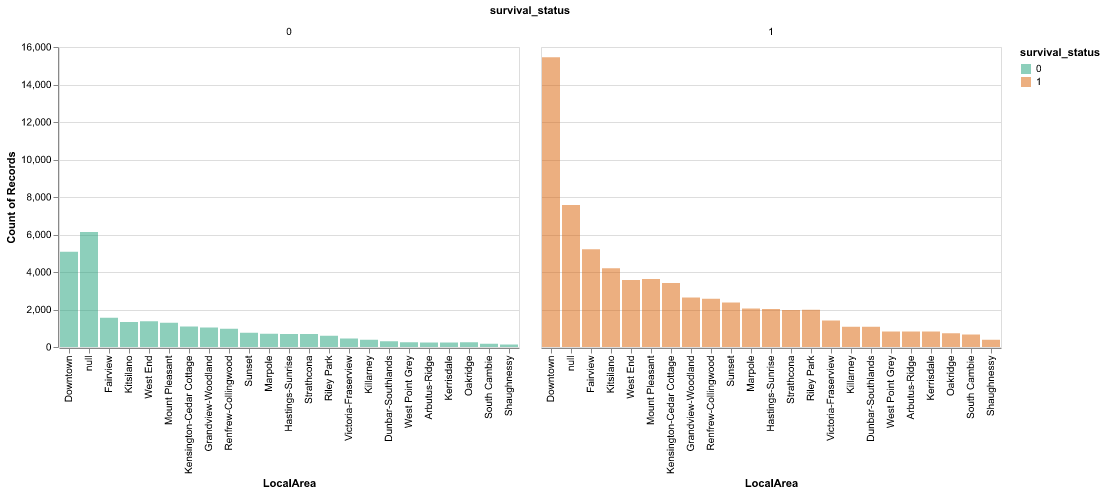
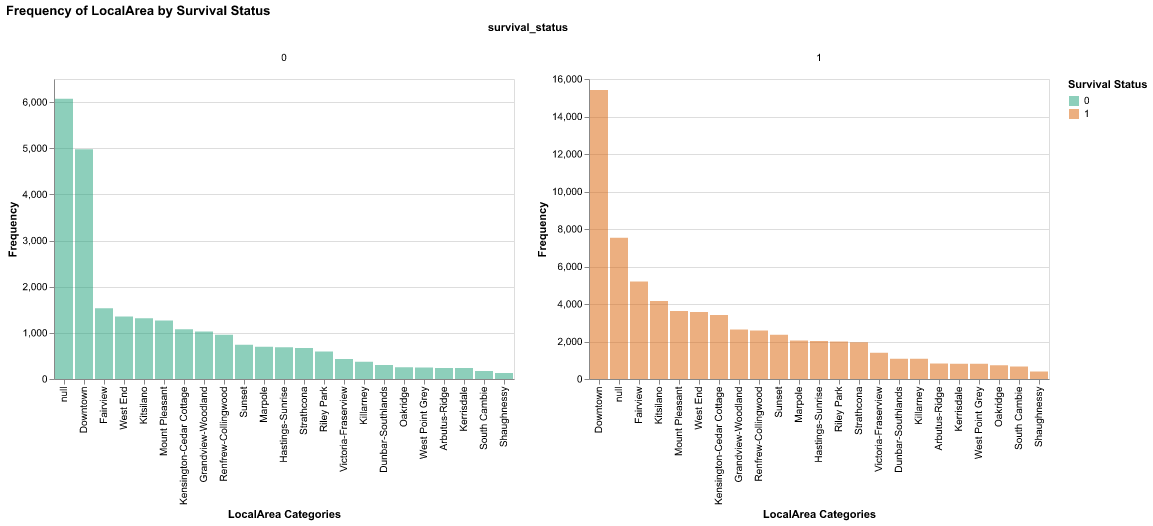
fix EDA script

diff --git a/src/EDA.py b/src/EDA.py
@@ -16,51 +16,82 @@ def numeric_feature_visualization(data, features):
     Returns:
     - An Altair LayerChart displaying density plots for numeric features grouped by survival status.
     """
-    charts_numeric = [alt.Chart(data).transform_density(
-        feature,
-        as_=[feature, 'density'],
-        groupby=['survival_status']
-    ).mark_area(opacity=0.5).encode(
-        x=alt.X(feature, title=feature).stack(False),
-        y='density:Q',
-        color=alt.Color('survival_status:O').scale(scheme='dark2')
-    ).properties(
-        width=180,
-        height=120
-    ) for feature in features]
+    charts_numeric = []
+    for feature in features:
+        chart = alt.Chart(data).transform_density(
+            feature,
+            as_=[feature, 'density'],
+            groupby=['survival_status']
+        ).mark_area(opacity=0.5).encode(
+            x=alt.X(feature, title=f'{feature} Distribution'),
+            y=alt.Y('density:Q', title='Density'),
+            color=alt.Color('survival_status:O', legend=alt.Legend(title="Survival Status")).scale(scheme='dark2')
+        ).properties(
+            width=180,
+            height=120,
+            title=f'Density Plot of {feature} by Survival Status'
+        )
+        charts_numeric.append(chart)
     
     chart_grid = alt.vconcat(*[
         alt.hconcat(*charts_numeric[i:i+2]) for i in range(0, len(charts_numeric), 2)
     ])
-    
+        
     chart_grid.save('results/figures/numeric_features.png')
 
-def large_variance_numeric_feature_visualization(data, feature):
+
+def fee_paid_visualization(data, feature='FeePaid'):
     """
-    Generates a density plot for a numeric feature with a restricted x-axis domain, grouped by survival status.
+    Generates a density plot for the 'FeePaid' feature with a restricted x-axis domain, grouped by survival status.
 
     Parameters:
-    - data (pandas.DataFrame): The input DataFrame containing the numeric feature and the 'survival_status' column.
-    - feature (str): The column name corresponding to the numeric feature in the DataFrame.
+    - data (pandas.DataFrame): The input DataFrame containing the 'FeePaid' feature and the 'survival_status' column.
 
     Returns:
-    - An Altair Chart displaying a density plot for the specified numeric feature with a restricted x-axis domain.
+    - An Altair Chart displaying a density plot for the 'FeePaid' feature with a restricted x-axis domain.
     """
     chart = alt.Chart(data).transform_density(
         feature,
         as_=[feature, 'density'],
         groupby=['survival_status']
     ).mark_area(opacity=0.5).encode(
-        x=alt.X(feature, title=feature, scale=alt.Scale(domain=[0, 5000])).stack(False),
-        y='density:Q',
-        color=alt.Color('survival_status:O').scale(scheme='dark2')
+        x=alt.X(feature, title=f'{feature} Distribution', scale=alt.Scale(domain=[0, 5000])).stack(False),
+        y=alt.Y('density:Q', title='Density'),
+        color=alt.Color('survival_status:O', legend=alt.Legend(title="Survival Status")).scale(scheme='dark2')
     ).properties(
         width=120,
-        height=120
+        height=120,
+        title=f'Density Plot of {feature} by Survival Status'
     )
-    png_name = f'results/figures/large_variance_numeric_{feature}.png'
+    
+    png_name = f'results/figures/{feature}.png'
     chart.save(png_name)
-    # return chart
+
+def num_of_employee_visualization(data, feature='NumberofEmployees'):
+    """
+    Generates a density plot for the 'NumberofEmployees' feature with a restricted x-axis domain, grouped by survival status.
+
+    Parameters:
+    - data (pandas.DataFrame): The input DataFrame containing the 'NumberofEmployees' feature and the 'survival_status' column.
+
+    Returns:
+    - An Altair Chart displaying a density plot for the 'NumberofEmployees' feature with a restricted x-axis domain.
+    """
+    chart = alt.Chart(data[data['NumberofEmployees'] <= 20]).transform_density(
+        'NumberofEmployees',
+        as_=['NumberofEmployees', 'density'],
+        groupby=['survival_status']
+    ).mark_area(opacity=0.5).encode(
+        x=alt.X(feature, title=f'{feature} Distribution').stack(False),
+        y=alt.Y('density:Q', title='Density'),
+        color=alt.Color('survival_status:O', legend=alt.Legend(title="Survival Status")).scale(scheme='dark2')
+    ).properties(
+        width=120,
+        height=120,
+        title=f'Density Plot of {feature} by Survival Status'
+    )
+    png_name = f'results/figures/{feature}.png'
+    chart.save(png_name)
 
 def categorical_feature_visualization(data, feature):
     """
@@ -73,18 +104,24 @@ def categorical_feature_visualization(data, feature):
     Returns:
     - An Altair Chart displaying a faceted bar chart for the specified categorical feature grouped by survival status.
     """
+    
     chart = alt.Chart(data).mark_bar(opacity=0.5).encode(
-        alt.X(feature, sort='-y').stack(False),
-        y='count()',
-        color=alt.Color('survival_status:O').scale(scheme='dark2')
+        x=alt.X(feature, sort='-y', title=f'{feature} Categories'),  
+        y=alt.Y('count()', title='Frequency'),  
+        color=alt.Color('survival_status:O', legend=alt.Legend(title="Survival Status")).scale(scheme='dark2')
     ).facet(
-        'survival_status:O', columns = 2
+        column='survival_status:O'
+    ).resolve_scale(
+        x='independent', 
+        y='independent'
+    ).properties(
+        title=f'Frequency of {feature} by Survival Status'
     )
 
     png_name = f'results/figures/categorical_{feature}.png'
     chart.save(png_name)
 
-def varianced_categorical_feature_visualization(data, feature):
+def varianced_categorical_feature_visualization(data, feature='BusinessType'):
     """
     Generates a faceted bar chart for a categorical feature with high variance, colored by survival status.
 
@@ -95,26 +132,32 @@ def varianced_categorical_feature_visualization(data, feature):
     Returns:
     - An Altair Chart displaying a faceted bar chart for the specified categorical feature with high variance, grouped by survival status.
     """
+
     top_20_categories = data[feature].value_counts().head(20).index.tolist()
     filtered = data[data[feature].isin(top_20_categories)]
 
     chart = alt.Chart(filtered).mark_bar(opacity=0.5).encode(
-        alt.X(feature, sort='-y').stack(False),
-        y='count()',
-        color=alt.Color('survival_status:O').scale(scheme='dark2')
+        x=alt.X(feature, title=f'Top 20 {feature} Categories', sort='-y'), 
+        y=alt.Y('count()', title='Frequency'), 
+        color=alt.Color('survival_status:O', legend=alt.Legend(title="Survival Status")).scale(scheme='dark2')
     ).facet(
-        'survival_status:O', columns = 2
+        column='survival_status:O',  
+        columns=2 
+    ).properties(
+        title=f'Frequency of Top 20 {feature} by Survival Status'
     )
 
     png_name = f'results/figures/varianced_categorical_{feature}.png'
     chart.save(png_name)
 
 
-
 @click.command()
 @click.option('--merged_data_path') # merged_data_path = 'data/processed/business_econ.csv'
 
 def main(merged_data_path):
+    if not os.path.exists('results/figures'):
+        os.makedirs('results/figures')
+
     # Load final merged data
     data = pd.read_csv(merged_data_path, low_memory=False)
 
@@ -122,9 +165,8 @@ def main(merged_data_path):
     numeric_features = ['GDPValue', 'ConsumerPriceValue', 'EmploymentValue', 'InvestmentConstructionValue'] 
     numeric_feature_visualization(data, numeric_features)
 
-    large_var_numeric_features = ['FeePaid'] # 'NumberofEmployees'
-    for large_var_feat in large_var_numeric_features:
-        large_variance_numeric_feature_visualization(data, large_var_feat)
+    fee_paid_visualization(data, feature='FeePaid')
+    num_of_employee_visualization(data, feature='NumberofEmployees')
     
     # Categorical
     categorical_features = ['LocalArea']
